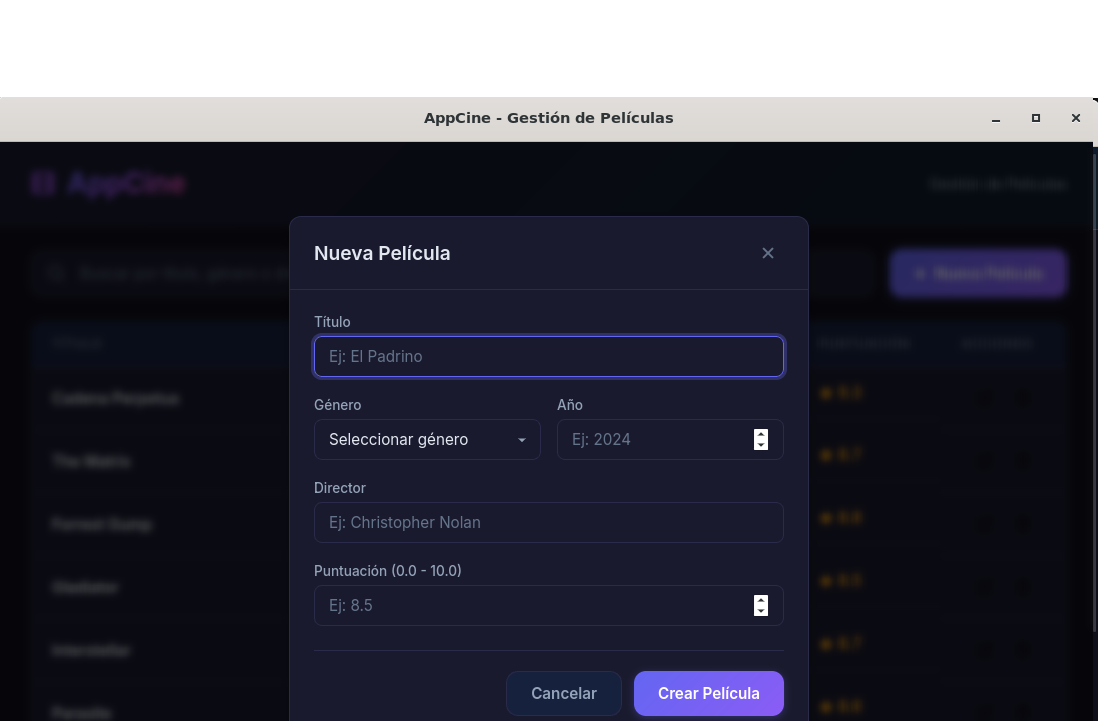
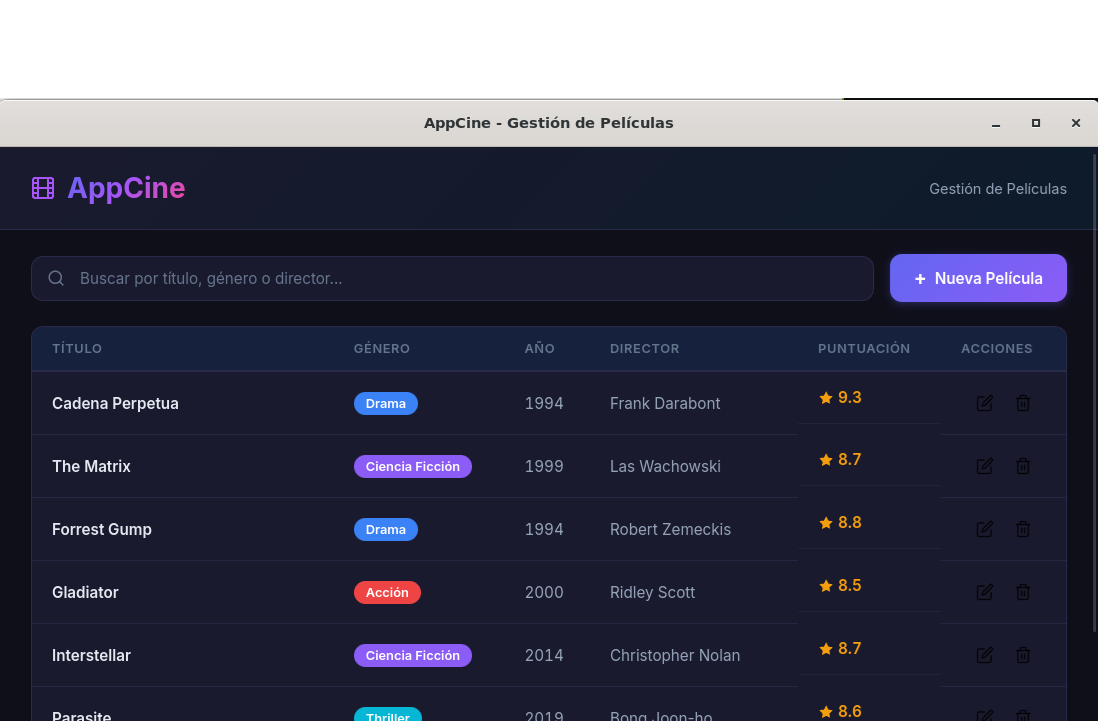
Inicio

diff --git a/sesiones/sesion00.md b/sesiones/sesion00.md
@@ -115,11 +115,15 @@ graph LR
 
 Web expuesta por Vite
 
-![App de Escritorio](../img/02.png)
+![Web expuesta por Vite](../img/02.png)
+
+Web expuesta por Vite / Cards
+
+![App de Escritorio](../img/03.png)
 
 App de Escritorio
 
-![App de Escritorio con ventana emergente](../img/03.png)
+![App de Escritorio con ventana emergente](../img/04.png)
 
 App de Escritorio con ventana emergente de inserción
 
